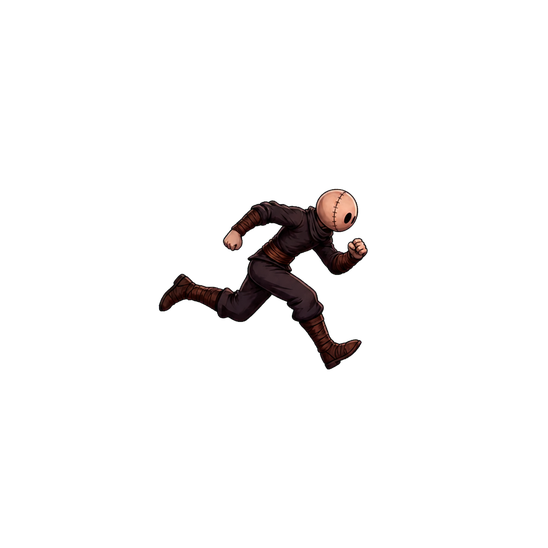
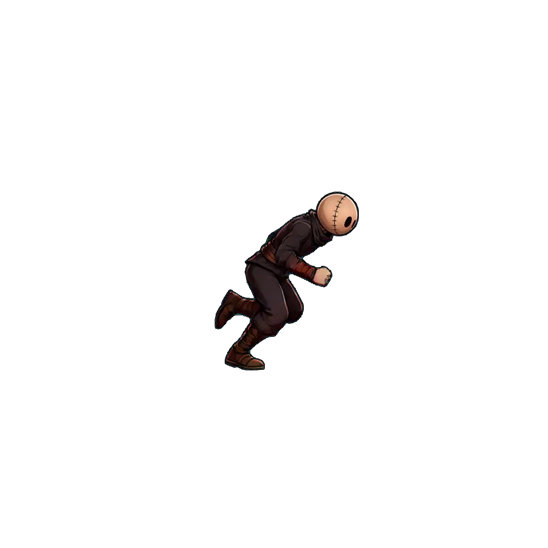
asset: restore original run animation

Changed region(s): [[0.2792, 0.3412, 0.6825, 0.6825]]

diff --git a/docs/art/player_animation_normalization.md b/docs/art/player_animation_normalization.md
@@ -27,14 +27,12 @@ crouched, so they were not enlarged merely to force every silhouette to the same
 bounding-box height.
 
 The run cycle retains the hand-selected playback order
-`001, 002, 003, 004, 005, 006, 012, 020, 007, 018, 008`. Each active frame is
-registered to runtime ground row 369 so the foot line no longer floats by as
-much as 12 source pixels between poses. Frame `005` uses one identity-matched
-bridge pose to replace the unusually compressed silhouette between the long
-strides in `004` and `006`; the other ten frames retain their original pixels
-apart from transparent-canvas translation. The exact pre-cleanup runtime files
-and their playback order are preserved under
-`Normalized_V2/run/old_run`.
+`001, 002, 003, 004, 005, 006, 012, 020, 007, 018, 008`. The July registration
+pass and generated bridge pose were rejected in playtesting because the result
+jittered. Every active run frame is now an exact pixel-for-pixel restoration of
+the previously hand-selected and hand-adjusted animation under
+`Normalized_V2/run/old_run`. Its intentional pose-height and foot-placement
+variation is preserved rather than forced onto a uniform baseline.
 
 ## Scale normalization
 

diff --git a/Assets/Threadborne/Player/Normalized_V2/run/old_run/README.md b/Assets/Threadborne/Player/Normalized_V2/run/old_run/README.md
@@ -1,8 +1,9 @@
 # Archived run animation
 
-This folder preserves the exact runtime PNGs and playback order that were active
-before the July 2026 run cleanup. The numbered `frame_00` through `frame_10`
-prefixes are the original Godot playback order:
+This folder is the canonical source for the exact runtime PNGs and playback
+order restored after the July 2026 run cleanup was rejected as jittery. The
+numbered `frame_00` through `frame_10` prefixes are the original Godot playback
+order:
 
 1. `run_001`
 2. `run_002`
@@ -16,5 +17,7 @@ prefixes are the original Godot playback order:
 10. `run_018`
 11. `run_008`
 
-These files are intentionally not referenced by the player scene. They are a
-lossless rollback copy of the hand-selected and hand-adjusted animation.
+The player scene references matching copies in the parent `run` directory.
+The normalizer copies these files without registration, scaling, generated
+bridge poses, or other pixel changes. This folder remains ignored by Godot so
+it acts as a stable, lossless source archive.
